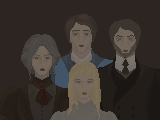
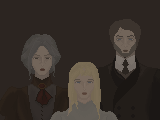
v1.0.1

Changed region(s): [[0.3125, 0.175, 0.7188, 0.75]]

diff --git a/Assets/_Game/Scripts/Gameplay/CenterHint.cs b/Assets/_Game/Scripts/Gameplay/CenterHint.cs
@@ -1,0 +1,58 @@
+using DG.Tweening;
+using UnityEngine;
+using UnityEngine.UI;
+
+namespace Jam.Gameplay
+{
+    /// <summary>
+    /// Подсказка клавиш крупно по центру экрана на пару секунд («Shift — бег», «ПКМ — обскура»):
+    /// в такие моменты игрок смотрит в обскуру в руках и мелкую строку в углу не замечает.
+    /// </summary>
+    public static class CenterHint
+    {
+        static Text s_text;
+        static CanvasGroup s_group;
+
+        public static void Show(string keys, float seconds = 3f)
+        {
+            if (!s_text)
+            {
+                var go = new GameObject("CenterHint", typeof(Canvas), typeof(CanvasScaler), typeof(CanvasGroup));
+                Object.DontDestroyOnLoad(go);
+                var canvas = go.GetComponent<Canvas>();
+                canvas.renderMode = RenderMode.ScreenSpaceOverlay;
+                canvas.sortingOrder = 300;
+                var sc = go.GetComponent<CanvasScaler>();
+                sc.uiScaleMode = CanvasScaler.ScaleMode.ScaleWithScreenSize;
+                sc.referenceResolution = new Vector2(1920f, 1080f);
+                sc.matchWidthOrHeight = 0.5f;
+                s_group = go.GetComponent<CanvasGroup>();
+                s_group.blocksRaycasts = false;
+                s_group.interactable = false;
+                var t = new GameObject("Text", typeof(RectTransform), typeof(Text)).GetComponent<Text>();
+                t.transform.SetParent(go.transform, false);
+                var rt = t.rectTransform;
+                rt.anchorMin = rt.anchorMax = new Vector2(0.5f, 0.5f);
+                rt.anchoredPosition = new Vector2(0f, 160f);
+                rt.sizeDelta = new Vector2(1400f, 120f);
+                var f = Resources.Load<Font>("Fonts/OldStandard-Regular");
+                t.font = f ? f : Resources.GetBuiltinResource<Font>("LegacyRuntime.ttf");
+                t.fontSize = 56;
+                t.alignment = TextAnchor.MiddleCenter;
+                t.color = new Color(0.95f, 0.9f, 0.78f, 1f);
+                t.raycastTarget = false;
+                var o = t.gameObject.AddComponent<Outline>();
+                o.effectColor = new Color(0f, 0f, 0f, 0.8f);
+                o.effectDistance = new Vector2(2f, -2f);
+                s_text = t;
+            }
+            s_text.text = keys;
+            s_group.DOKill();
+            s_group.alpha = 0f;
+            DOTween.Sequence().SetUpdate(true).SetTarget(s_group)
+                .Append(s_group.DOFade(1f, 0.25f))
+                .AppendInterval(seconds)
+                .Append(s_group.DOFade(0f, 0.6f));
+        }
+    }
+}

diff --git a/Assets/_Game/Scripts/Act2/Act2Director.cs b/Assets/_Game/Scripts/Act2/Act2Director.cs
@@ -359,7 +359,9 @@ namespace Jam.Gameplay
                 if (meter) meter.Clear();
                 foreach (var c in PhotographerCamera.All.ToList()) if (c) c.Remove();
                 // пластина, которую он уронил: картинка художников, иначе последняя проявленная из альбома
-                Texture plate = finalPlate;
+                // пластина с героем среди семьи (Resources/Plates/P_Final_Act2) — без пересборки уровня
+                Texture plate = Resources.Load<Texture2D>("Plates/P_Final_Act2");
+                if (!plate) plate = finalPlate;
                 if (!plate)
                 {
                     var album = FindAnyObjectByType<FamilyAlbum>();

diff --git a/Assets/_Game/Scripts/Gameplay/Candelabra.cs b/Assets/_Game/Scripts/Gameplay/Candelabra.cs
@@ -111,7 +111,8 @@ namespace Jam.Gameplay
         {
             get
             {
-                if (!GhostMode) return IsLit ? "" : "Зажечь канделябр";
+                // подсказка — только там, где канделябр правда можно зажечь (нужен для снимка); иначе она путала
+                if (!GhostMode) return !IsLit && HasFlame && NeededForShot() ? "Зажечь канделябр" : "";
                 if (!IsLit || !HasFlame) return "";
                 return _hold > 0f ? $"Гаснет… {Mathf.RoundToInt(_hold / holdSeconds * 100f)}%" : "Погасить свечу (держать E)";
             }

diff --git a/Assets/_Game/Editor/Level/TexturePostprocessor.cs b/Assets/_Game/Editor/Level/TexturePostprocessor.cs
@@ -12,7 +12,7 @@ namespace Jam.EditorTools
         void OnPreprocessTexture()
         {
             string p = assetPath.Replace('\\', '/');
-            if (p.StartsWith("Assets/Resources/Menu/"))
+            if (p.StartsWith("Assets/Resources/Menu/") || p.StartsWith("Assets/Resources/Plates/"))
             {
                 // фон меню: без подгонки под степень двойки (иначе 630×500 сплющится в квадрат), без сжатия
                 var mi = (TextureImporter)assetImporter;

diff --git a/Assets/_Game/Scripts/Gameplay/Thoughts.cs b/Assets/_Game/Scripts/Gameplay/Thoughts.cs
@@ -47,6 +47,7 @@ namespace Jam.Gameplay
             string line = ShowText ? text ?? "" : "";
             if (!string.IsNullOrEmpty(keys)) line += (line.Length > 0 ? "\n" : "") + "<color=#9a9488>" + keys + "</color>";
             if (line.Length > 0 && PlateCounterUI.Instance) PlateCounterUI.Instance.ShowHint(line);
+            if (!string.IsNullOrEmpty(keys)) CenterHint.Show(keys);
 
             var clip = Resources.Load<AudioClip>("VO/vo_" + id);
             if (!clip) return;
